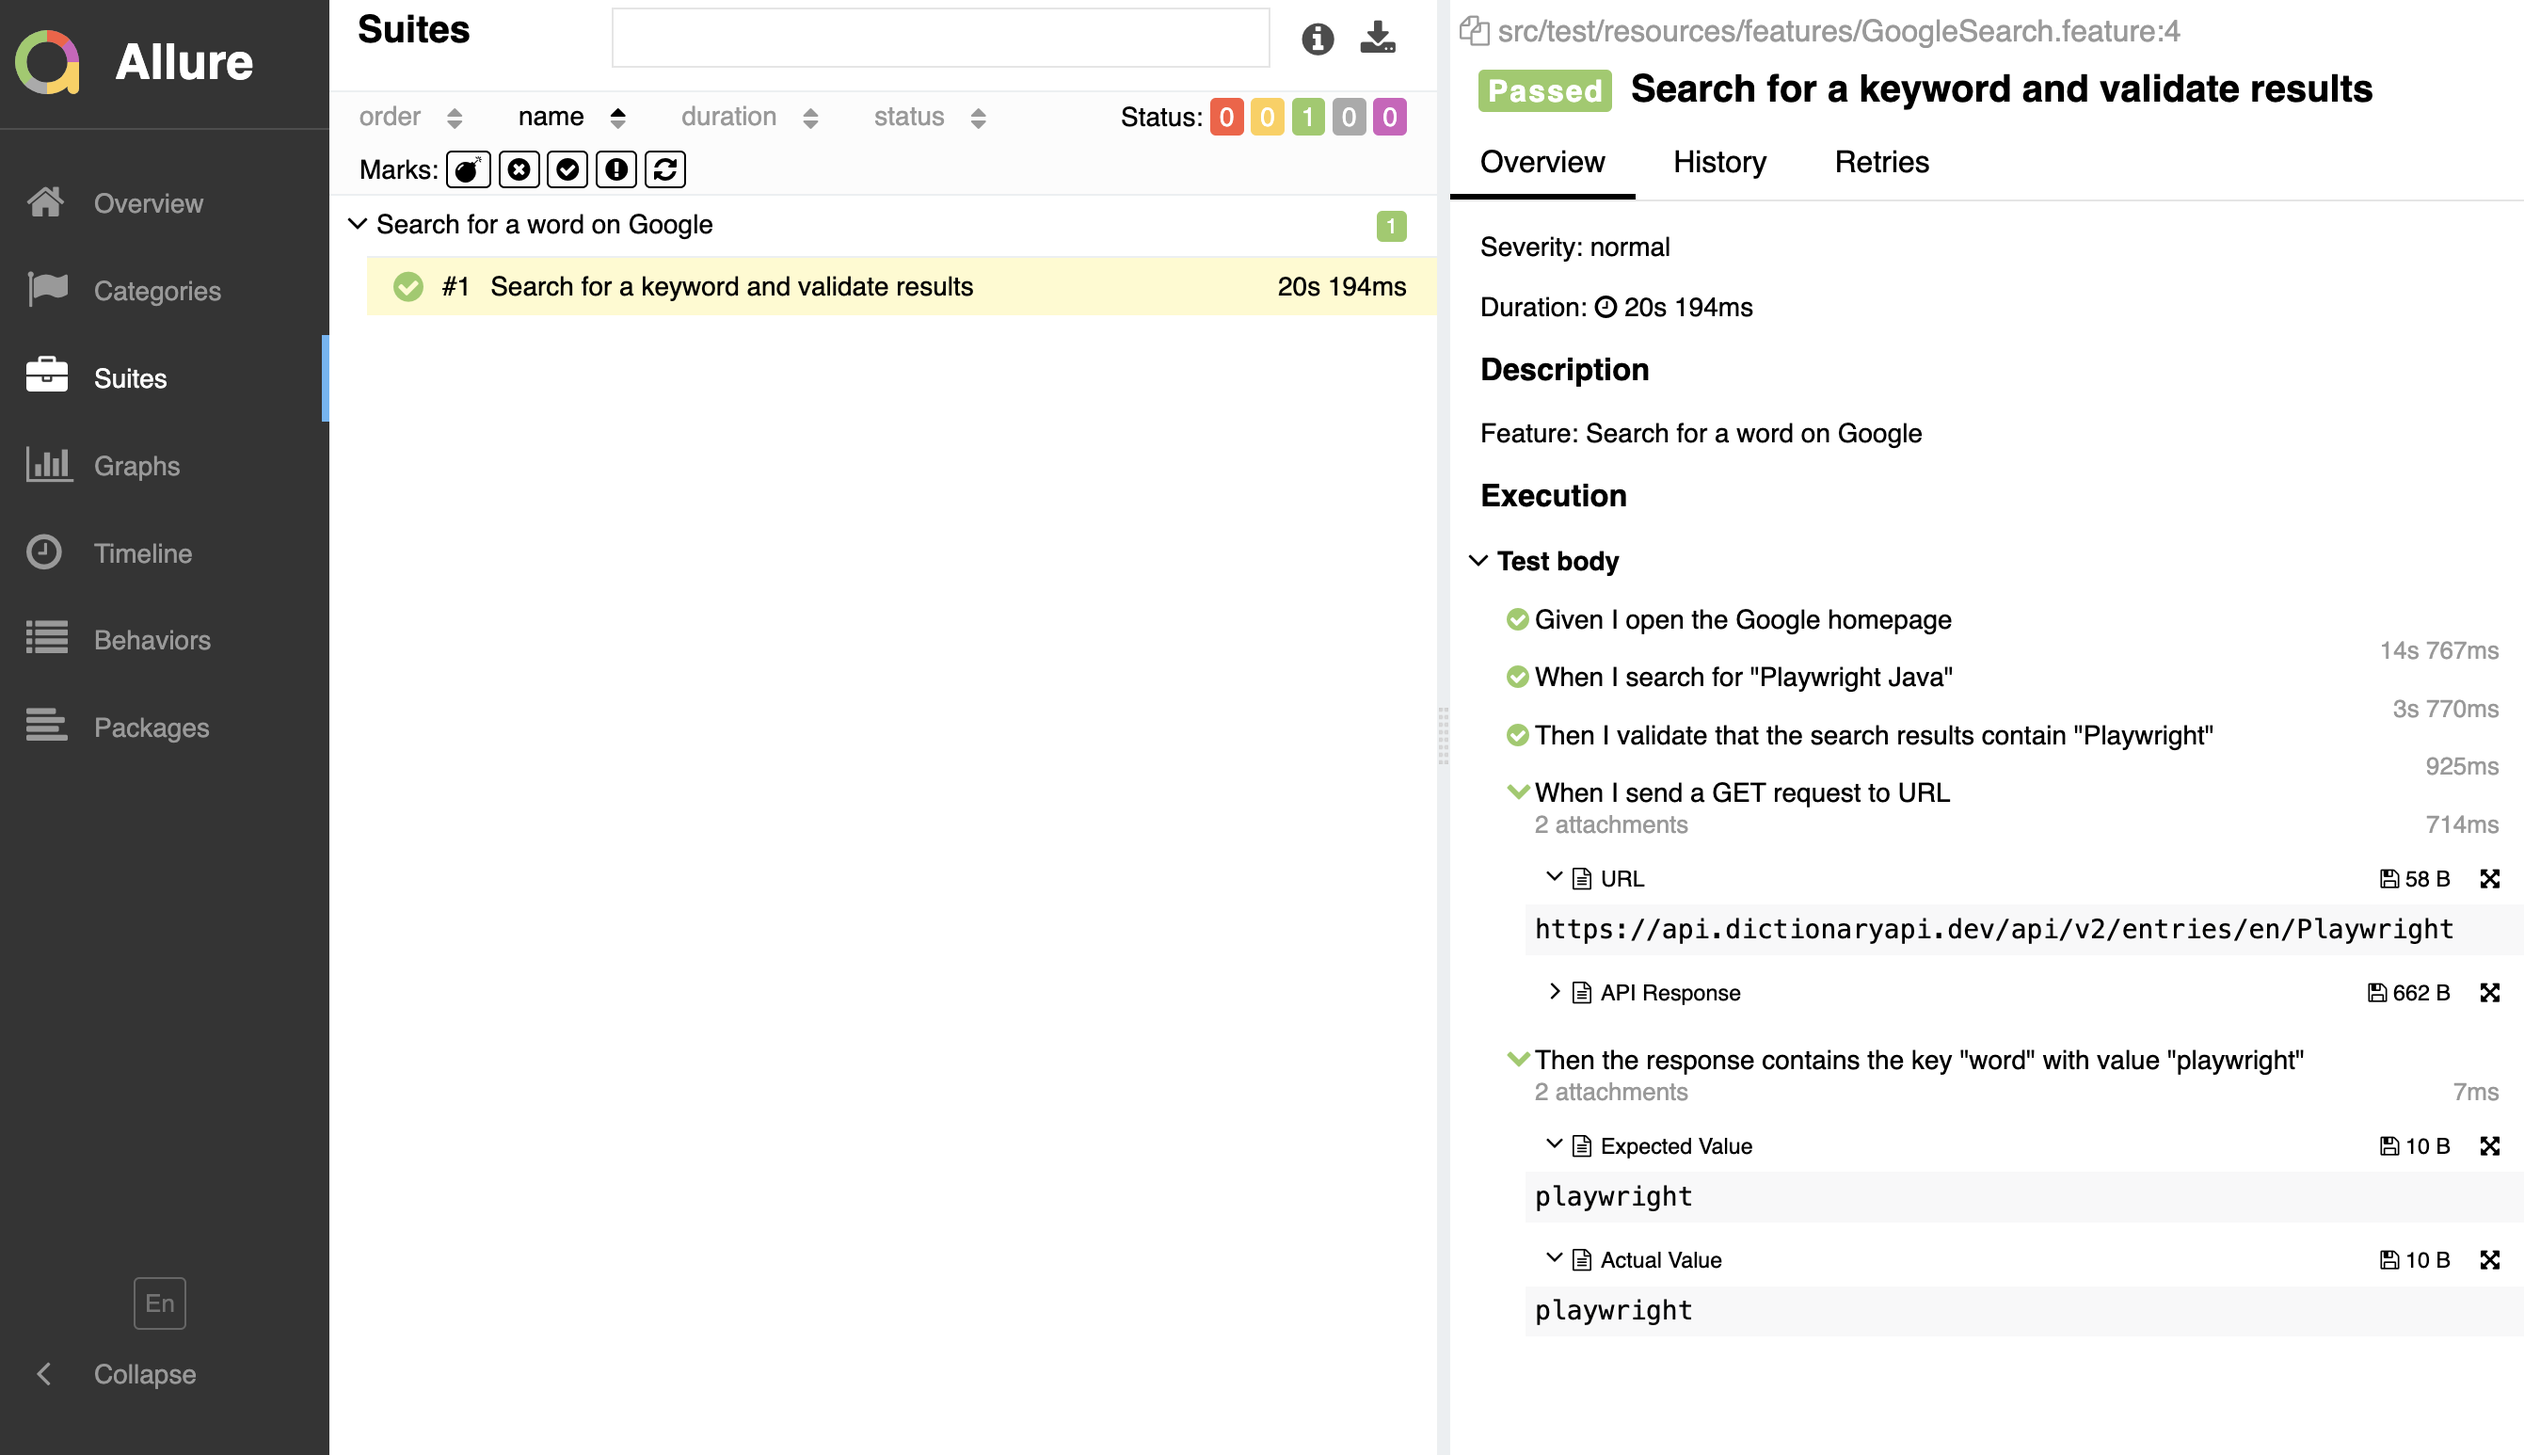
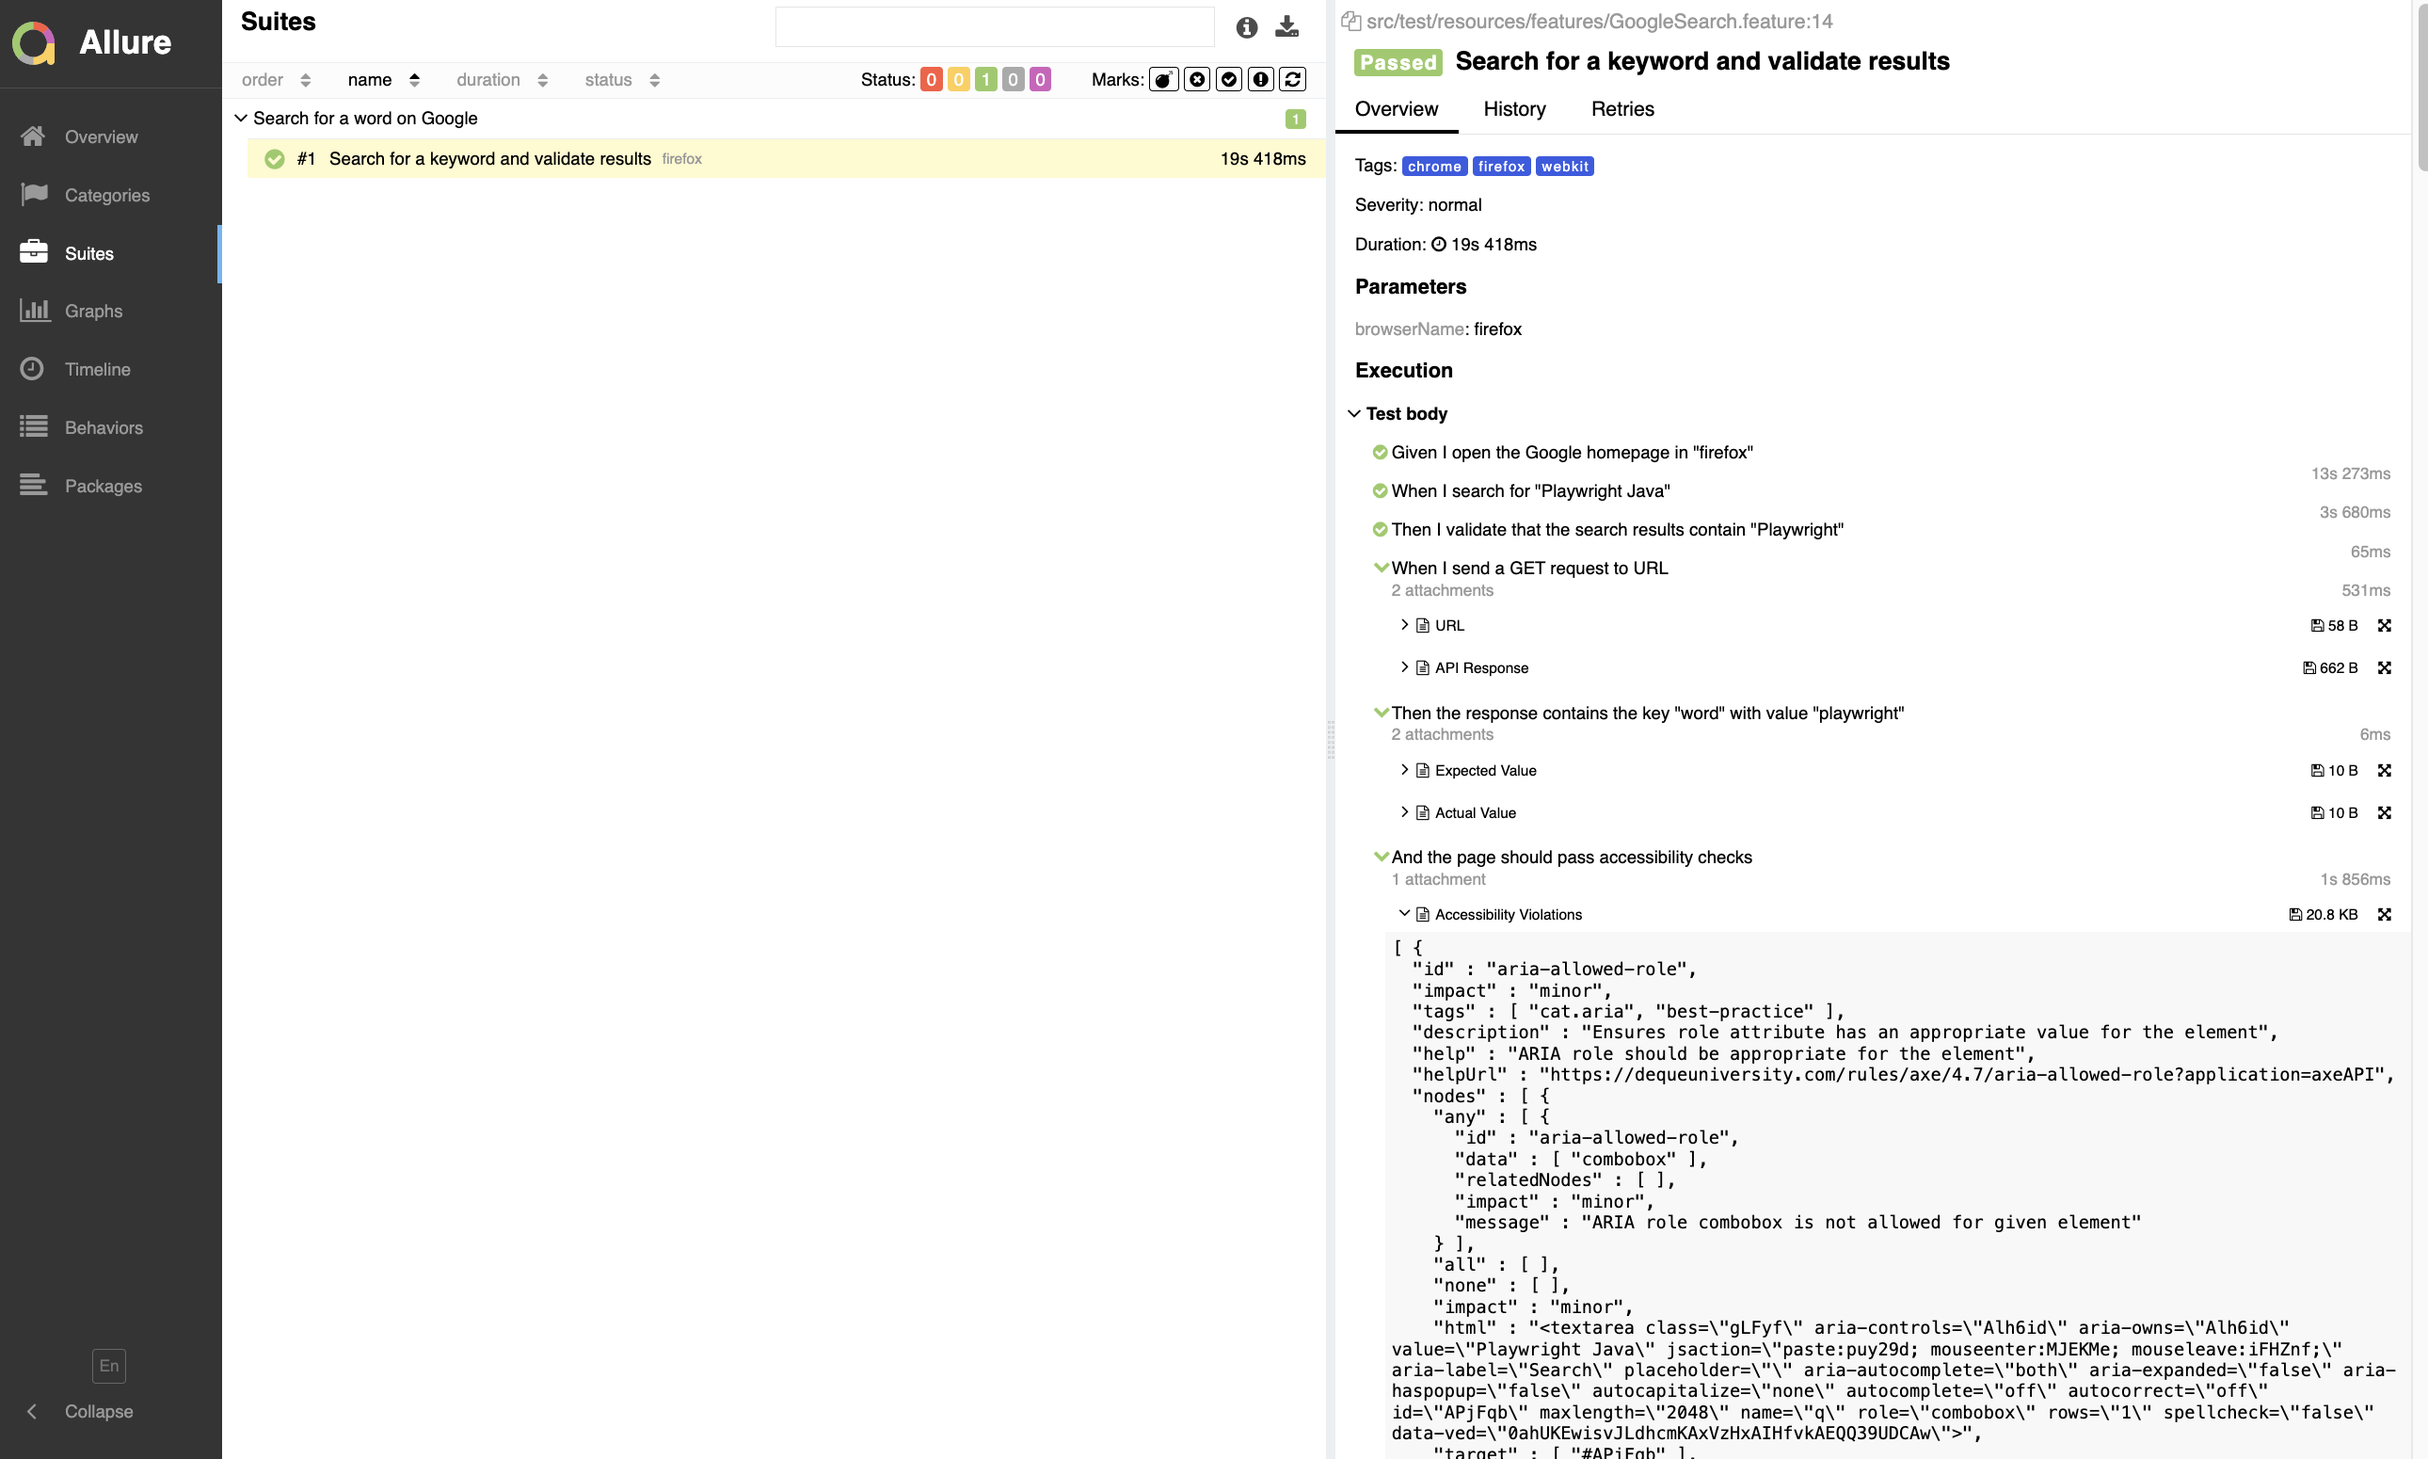
updated the readme file with accessibility info

diff --git a/Readme.md b/Readme.md
@@ -11,6 +11,7 @@
     * [Install Playwright](#install-playwright)
     * [Setup Gradle:](#setup-gradle)
     * [Configure Allure](#configure-allure)
+    * [Set up Axe-Core for Accessibility Testing](#set-up-axe-core-for-accessibility-testing)
   * [Project Structure](#project-structure)
   * [Gradle Dependencies](#gradle-dependencies)
   * [Allure Reporting](#allure-reporting)
@@ -39,12 +40,14 @@ Ensure you have the following installed:
 4. Git: Version control system.
 5. Node.js: Required for Playwright installation.
 6. Allure Commandline: For generating and displaying reports.
+7. Axe-Core: For accessibility testing.
 
 ### Framework Features
 * Playwright: Handles browser automation and interaction.
 * JUnit5: Test lifecycle management and assertions.
 * Allure Reporting: Generates visual reports for test execution.
 * Gradle: Dependency management and build automation.
+* Axe-Core: Integrates accessibility checks into the Playwright tests.
 
 
 ## Setup Instructions
@@ -65,6 +68,58 @@ Ensure Allure command-line tools are installed on your machine. You can verify i
 If not installed, you can add Allure using Homebrew (macOS) or Scoop (Windows).
 
 `brew install allure` or `scoop install allure`
+
+### Set up Axe-Core for Accessibility Testing
+To integrate Axe-Core into your Playwright tests, follow these steps:
+
+1. Download and Save the `axe.min.js` File Locally
+
+```
+   a. Open your browser and navigate to the CDN URL: https://cdnjs.cloudflare.com/ajax/libs/axe-core/4.7.2/axe.min.js
+
+   b. Right-click and select Save As.
+
+   c. Save the file in your project directory, e.g., src/test/resources/axe.min.js. 
+```
+
+
+2. Add Accessibility Test Helper Class: You can create a helper class to run accessibility tests using Axe-Core. 
+Here's an example of a simple accessibility test:
+
+```
+import com.microsoft.playwright.*;
+import com.deque.axe.Axe;
+import org.junit.jupiter.api.Test;
+import static org.junit.jupiter.api.Assertions.*;
+
+public class AccessibilityTest {
+
+    @Test
+    public void testAccessibility() {
+        Playwright playwright = Playwright.create();
+        Browser browser = playwright.chromium().launch(new BrowserType.LaunchOptions().setHeadless(true));
+        Page page = browser.newPage();
+
+        // Navigate to the website to be tested
+        page.navigate("https://example.com");
+
+        // Run Axe-Core accessibility analysis
+        Axe.Builder axeBuilder = new Axe.Builder(page);
+        var results = axeBuilder.analyze();
+
+        // Assert no violations
+        assertTrue(results.getViolations().isEmpty(), "Accessibility violations found: " + results.getViolations());
+
+        browser.close();
+    }
+}
+```
+3. Run Accessibility Tests: Use the standard Gradle test command to run accessibility tests along with other Playwright tests: 
+
+`./gradlew clean cucumberTest allureReport allureServe`
+
+Any accessibility violations will be outputted in the test report, and you can inspect them to ensure compliance with WCAG standards.
+
 
 ## Project Structure
 
